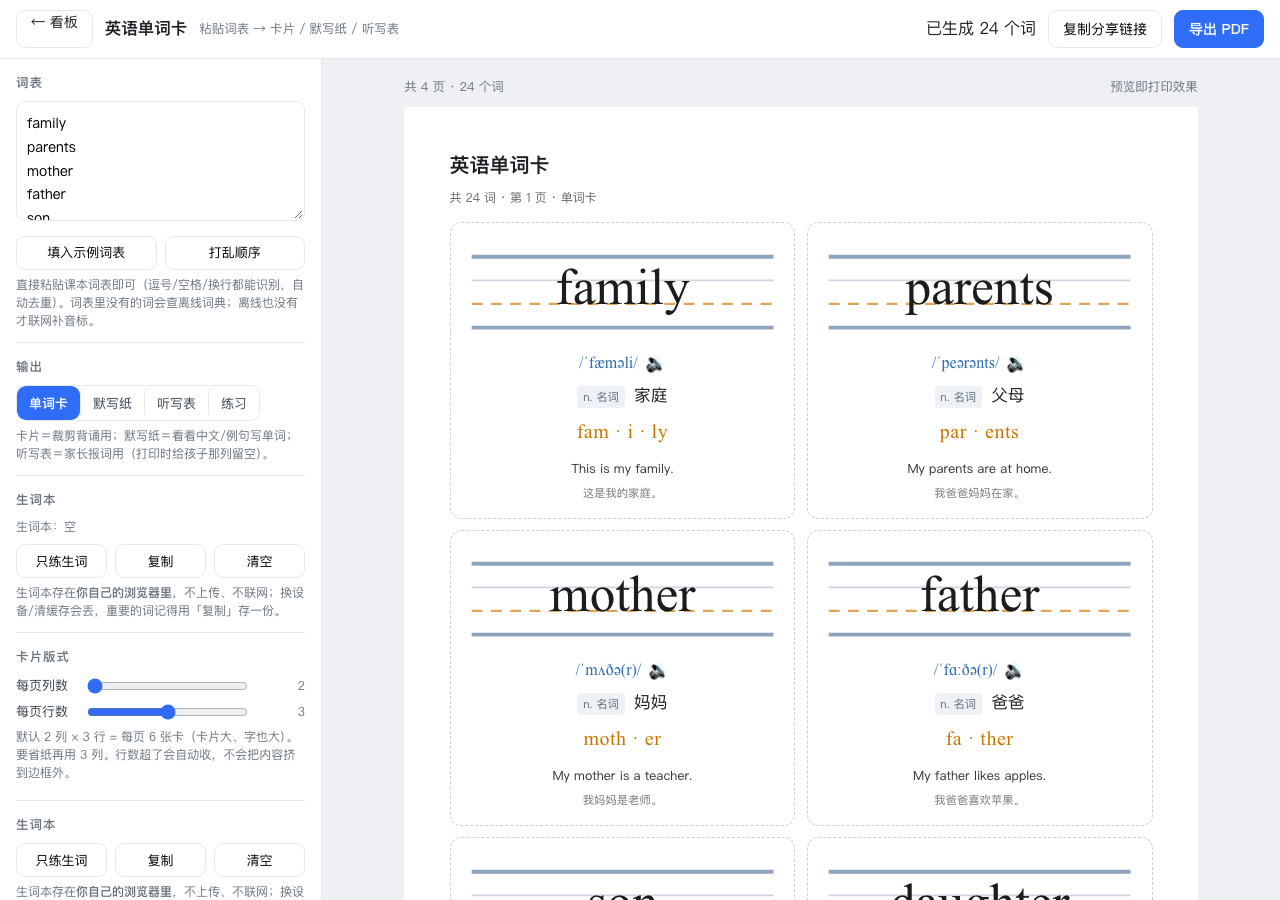
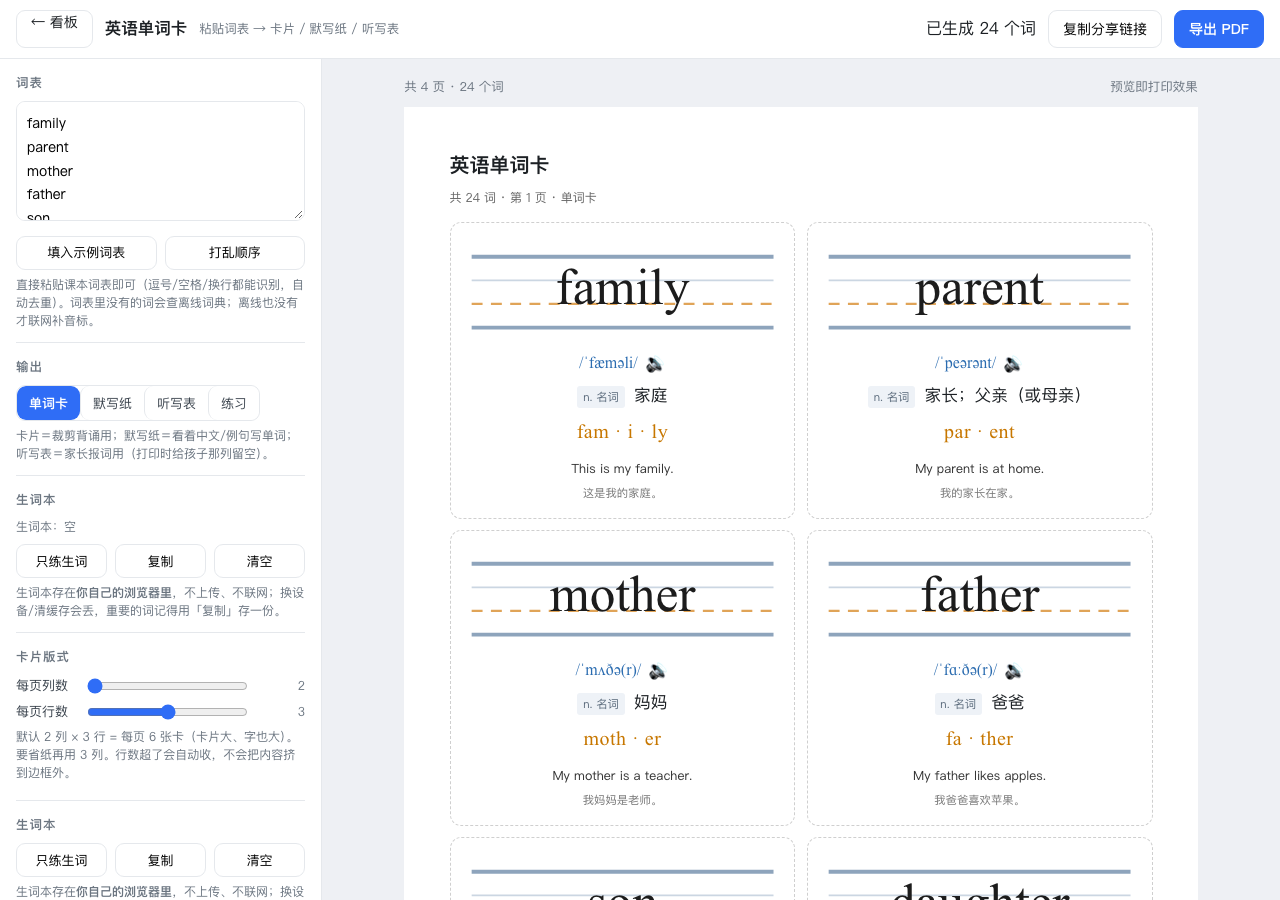
词频星级：查不到原形时按屈折形式还原；无星显示 ☆
- freqStars 增加 -s/-es/-ies/-ves/-ed/-ing 还原，parents 继承 parent 的 ★★★
- 10,000 名以外/专有名词改显示空心星 ☆，避免和「漏了」混淆
- 工具图例、README 同步更新
- 示例词表 parents 改为 parent（单词用原形，不用复数）；刷新单词卡截图

Changed region(s): [[0.6875, 0.3733, 0.8438, 0.56], [0.6875, 0.3111, 0.8438, 0.3422]]

diff --git a/sheet/index.html b/sheet/index.html
@@ -166,10 +166,10 @@
     <tr><td><b>★★★</b></td><td>前 1,000</td><td>英语的骨架词，必须秒认秒写</td></tr>
     <tr><td><b>★★</b></td><td>前 3,000</td><td>高频，日常够用</td></tr>
     <tr><td><b>★</b></td><td>前 10,000</td><td>有一定使用面，值得学</td></tr>
-    <tr><td>（无星）</td><td>10,000 名以外</td><td>低频或专有名词，认识就行，不必死练拼写</td></tr>
+    <tr><td><b>☆</b></td><td>10,000 名以外</td><td>低频或专有名词，认识就行，不必死练拼写</td></tr>
   </table>
   <p class="note">分级看「难度」，词频看「用得上用不上」。两者一起看：
-  <b>A1 + ★★★</b> = 必须掌握；<b>B1 + 无星</b> = 知道就好。</p>
+  <b>A1 + ★★★</b> = 必须掌握；<b>B1 + ☆</b> = 知道就好。</p>
 
   <h2>记忆点</h2>
   <p>只在真正有钩子的时候才给，不是每个词都有。挑的角度按优先级：</p>
@@ -225,9 +225,27 @@ function ew(s, bold){
 const tw = (s, pt, bold) => ew(s, bold) * pt * PTMM;
 const plain = h => h.replace(/<\/?em>/g, '');
 
+/* 词频：先查原形；查不到就按常见屈折形式还原再查（-s/-es/-ies/-ed/-ing） */
+function rankBand(w){
+  const R = window.SHEET_RANK || {};
+  const k = w.toLowerCase();
+  if (R[k] !== undefined) return R[k];
+  const cands = [];
+  const push = s => { if (s && cands.indexOf(s) < 0) cands.push(s); };
+  const dbl = s => { if (/([b-df-hj-np-tv-z])\1$/.test(s)) push(s.slice(0, -1)); };
+  if (/ies$/.test(k)) push(k.slice(0, -3) + 'y');                          // studies → study
+  if (/ves$/.test(k)) { push(k.slice(0, -3) + 'f'); push(k.slice(0, -3) + 'fe'); } // knives → knife
+  if (/s$/.test(k) && !/ss$/.test(k)) push(k.slice(0, -1));                // parents → parent, shoes → shoe
+  if (/es$/.test(k)) push(k.slice(0, -2));                                 // boxes → box
+  if (/ied$/.test(k)) push(k.slice(0, -3) + 'y');                          // tried → try
+  if (/ed$/.test(k)) { push(k.slice(0, -1)); dbl(k.slice(0, -2)); push(k.slice(0, -2)); } // liked→like, stopped→stop, played→play
+  if (/ing$/.test(k)) { push(k.slice(0, -3) + 'e'); dbl(k.slice(0, -3)); push(k.slice(0, -3)); } // making→make, running→run, watching→watch
+  for (const c of cands) if (R[c] !== undefined) return R[c];
+  return 0;
+}
 function freqStars(w){
-  const b = (window.SHEET_RANK || {})[w.toLowerCase()];
-  return b === 3 ? '★★★' : b === 2 ? '★★' : b === 1 ? '★' : '';
+  const b = rankBand(w);
+  return b === 3 ? '★★★' : b === 2 ? '★★' : b === 1 ? '★' : '☆';
 }
 
 /* ===== 查词 ===== */

diff --git a/data/words-unit1.js b/data/words-unit1.js
@@ -8,12 +8,12 @@ window.UNIT1={
   "cn": "这是我的家庭。",
   "pos": "n. 名词"
  },
- "parents": {
-  "ipa": "ˈpeərənts",
-  "syl": "par·ents",
-  "zh": "父母",
-  "en": "My parents are at home.",
-  "cn": "我爸爸妈妈在家。",
+ "parent": {
+  "ipa": "ˈpeərənt",
+  "syl": "par·ent",
+  "zh": "家长；父亲（或母亲）",
+  "en": "My parent is at home.",
+  "cn": "我的家长在家。",
   "pos": "n. 名词"
  },
  "mother": {

diff --git a/README.md b/README.md
@@ -47,8 +47,9 @@
 | `★★★` | 英语最常见的 1000 词，必须秒认秒写 |
 | `★★` | 前 3000 词，日常够用 |
 | `★` | 前 10000 词，值得学 |
+| `☆` | 前 10000 名以外（含专有名词），认识就行，不必死练拼写 |
 
-> 分级看难度，星级看值不值得现在花时间。**A1 + ★★★** = 必掌握；**B1 + 无星** = 知道就好。
+> 分级看难度，星级看值不值得现在花时间。**A1 + ★★★** = 必掌握；**B1 + ☆** = 知道就好。
 
 ## 🔤 英语单词卡（`words/`）
 
